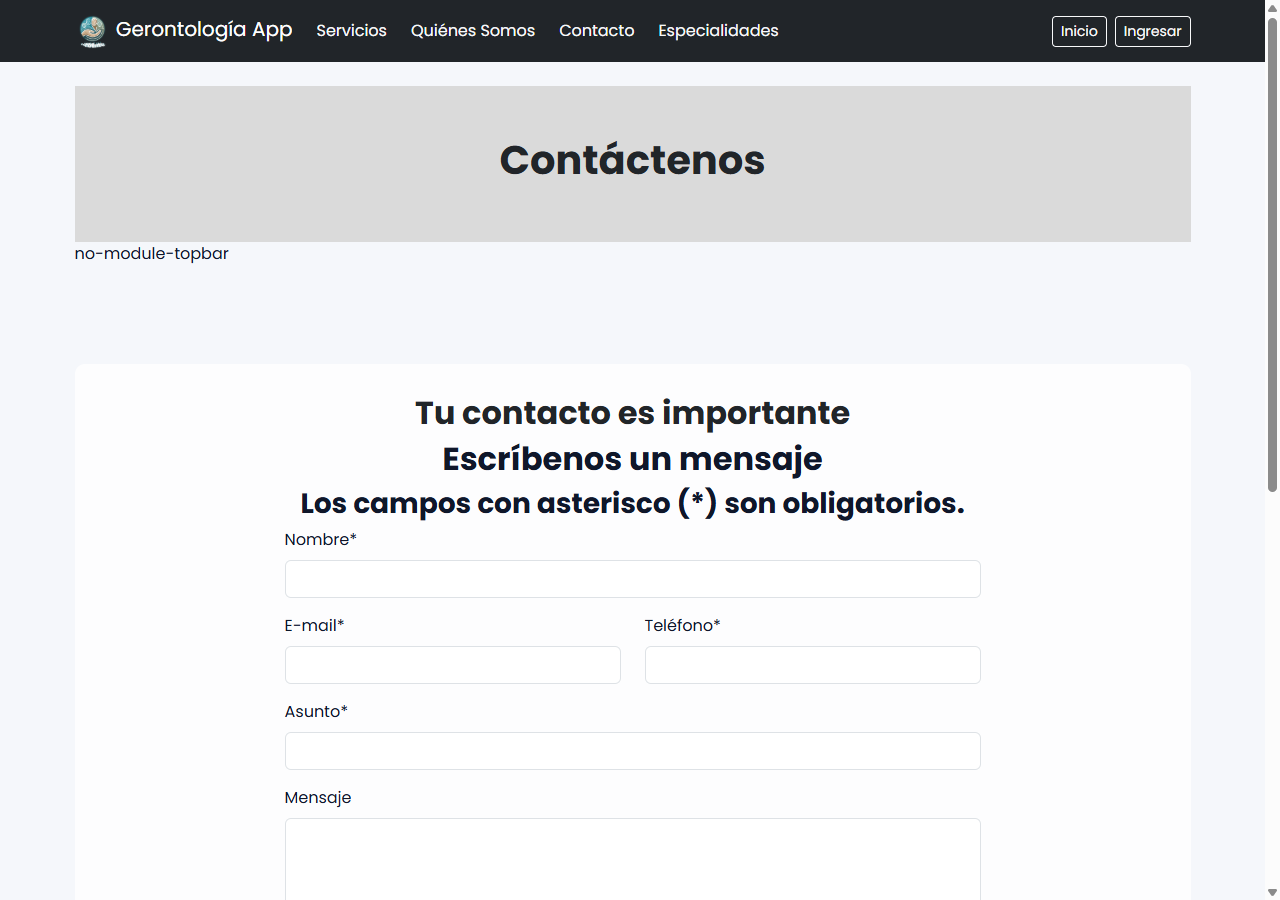
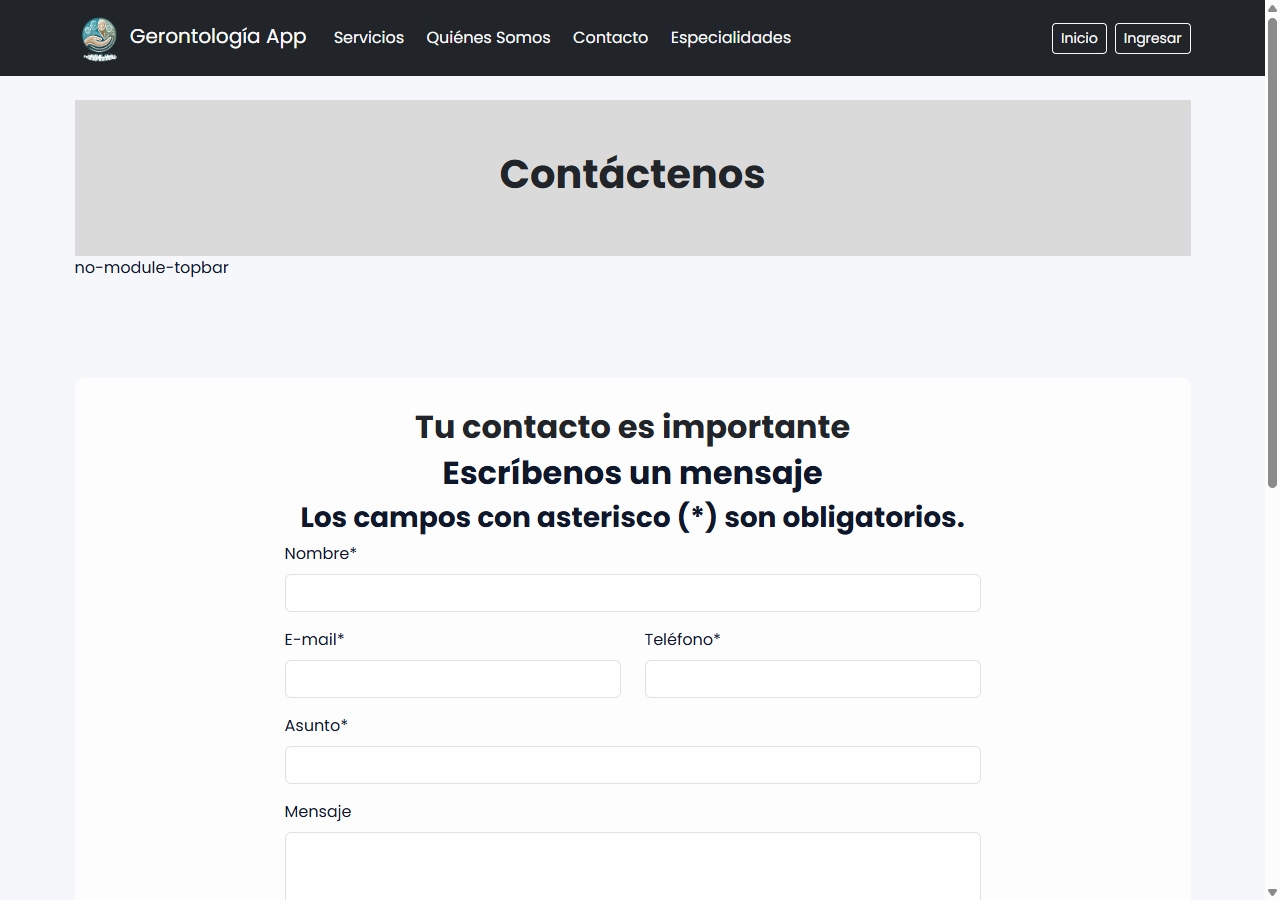
feat(responsive): make navbar and module layout responsive across pages

diff --git a/myapp/templates/module_base.html b/myapp/templates/module_base.html
@@ -19,53 +19,60 @@
     </style>
 </head>
 <body class="{% block body_class %}{% endblock %}">
-    <nav class="navbar navbar-dark bg-dark">
-        <div class="container d-flex justify-content-between align-items-center">
-            <div class="d-flex align-items-center">
-                <a class="navbar-brand me-3" href="{% url 'home' %}">
-                    <img src="{% static 'img/Logo.png' %}" height="36" alt="Logo"> Gerontología App
-                </a>
-                <ul class="navbar-nav d-flex flex-row gap-2">
-                    <li class="nav-item"><a class="nav-link text-light px-2" href="{% url 'servicios' %}">Servicios</a></li>
-                    <li class="nav-item"><a class="nav-link text-light px-2" href="{% url 'somos' %}">Quiénes Somos</a></li>
-                    <li class="nav-item"><a class="nav-link text-light px-2" href="{% url 'contactenos' %}">Contacto</a></li>
-                    <li class="nav-item"><a class="nav-link text-light px-2" href="{% url 'especialidades' %}">Especialidades</a></li>
+    <nav class="navbar navbar-dark bg-dark navbar-expand-lg main-navbar">
+        <div class="container">
+            <a class="navbar-brand me-3" href="{% url 'home' %}">
+                <img src="{% static 'img/Logo.png' %}" height="36" alt="Logo"> Gerontología App
+            </a>
+            <button class="navbar-toggler" type="button" data-bs-toggle="collapse" data-bs-target="#mainNavbar" aria-controls="mainNavbar" aria-expanded="false" aria-label="Alternar navegación">
+                <span class="navbar-toggler-icon"></span>
+            </button>
+
+            <div class="collapse navbar-collapse" id="mainNavbar">
+                <ul class="navbar-nav me-auto mb-2 mb-lg-0">
+                    <li class="nav-item"><a class="nav-link text-light" href="{% url 'servicios' %}">Servicios</a></li>
+                    <li class="nav-item"><a class="nav-link text-light" href="{% url 'somos' %}">Quiénes Somos</a></li>
+                    <li class="nav-item"><a class="nav-link text-light" href="{% url 'contactenos' %}">Contacto</a></li>
+                    <li class="nav-item"><a class="nav-link text-light" href="{% url 'especialidades' %}">Especialidades</a></li>
                 </ul>
-            </div>
-            <div class="d-flex align-items-center">
-                {% if user.is_authenticated %}
-                    <a href="{% url 'home' %}" class="btn btn-outline-light btn-sm me-2">Inicio</a>
-                    <a href="{% url 'logout' %}" class="btn btn-outline-light btn-sm">Cerrar sesión</a>
-                {% else %}
-                    <a href="{% url 'home' %}" class="btn btn-outline-light btn-sm me-2">Inicio</a>
-                    <a href="{% url 'login' %}" class="btn btn-outline-light btn-sm">Ingresar</a>
-                {% endif %}
+
+                <div class="d-flex flex-column flex-lg-row gap-2 mt-2 mt-lg-0">
+                    {% if user.is_authenticated %}
+                        <a href="{% url 'home' %}" class="btn btn-outline-light btn-sm">Inicio</a>
+                        <a href="{% url 'logout' %}" class="btn btn-outline-light btn-sm">Cerrar sesión</a>
+                    {% else %}
+                        <a href="{% url 'home' %}" class="btn btn-outline-light btn-sm">Inicio</a>
+                        <a href="{% url 'login' %}" class="btn btn-outline-light btn-sm">Ingresar</a>
+                    {% endif %}
+                </div>
             </div>
         </div>
     </nav>
 
     <!-- Module top action bar: title and module actions (can be overridden per-template) -->
     <div class="module-topbar py-2">
-        <div class="container d-flex justify-content-between align-items-center">
+        <div class="container module-topbar-inner">
             <div class="module-topbar-title">
                 {% block module_title %}{% endblock %}
             </div>
-            <div class="module-topbar-actions d-flex align-items-center">
-                {% block module_actions %}
-                    {% if user.is_authenticated %}
-                        <a href="{% url 'home' %}" class="btn btn-outline-light btn-sm me-2">← Volver al Módulo</a>
-                        <a href="{% url 'logout' %}" class="btn btn-danger btn-sm">Cerrar Sesión</a>
-                    {% endif %}
-                {% endblock %}
-            </div>
-            <!-- Theme selector: always present (outside module_actions so templates can't remove it accidentally) -->
-            <div class="theme-switcher ms-3">
-                <div class="btn-group">
-                    <button id="themeToggle" class="btn btn-sm btn-outline-light dropdown-toggle" data-bs-toggle="dropdown" aria-expanded="false">Tema</button>
-                    <ul class="dropdown-menu dropdown-menu-end" aria-labelledby="themeToggle">
-                        <li><a class="dropdown-item theme-select" data-theme="theme-professional" href="#">Profesional</a></li>
-                        <li><a class="dropdown-item theme-select" data-theme="theme-brand" href="#">Corporativo</a></li>
-                    </ul>
+            <div class="module-topbar-right d-flex align-items-center gap-2">
+                <div class="module-topbar-actions d-flex align-items-center">
+                    {% block module_actions %}
+                        {% if user.is_authenticated %}
+                            <a href="{% url 'home' %}" class="btn btn-outline-light btn-sm me-2">← Volver al Módulo</a>
+                            <a href="{% url 'logout' %}" class="btn btn-danger btn-sm">Cerrar Sesión</a>
+                        {% endif %}
+                    {% endblock %}
+                </div>
+                <!-- Theme selector: always present (outside module_actions so templates can't remove it accidentally) -->
+                <div class="theme-switcher ms-3">
+                    <div class="btn-group">
+                        <button id="themeToggle" class="btn btn-sm btn-outline-light dropdown-toggle" data-bs-toggle="dropdown" aria-expanded="false">Tema</button>
+                        <ul class="dropdown-menu dropdown-menu-end" aria-labelledby="themeToggle">
+                            <li><a class="dropdown-item theme-select" data-theme="theme-professional" href="#">Profesional</a></li>
+                            <li><a class="dropdown-item theme-select" data-theme="theme-brand" href="#">Corporativo</a></li>
+                        </ul>
+                    </div>
                 </div>
             </div>
         </div>

diff --git a/myapp/static/css/global.css b/myapp/static/css/global.css
@@ -104,3 +104,97 @@ p {
     max-height: 50px;
     width: auto;
 }
+
+/* Global responsive helpers */
+img,
+video,
+canvas,
+svg {
+    max-width: 100%;
+    height: auto;
+}
+
+input,
+select,
+textarea,
+button {
+    max-width: 100%;
+}
+
+table {
+    width: 100%;
+}
+
+.table-responsive,
+.patients-table,
+.records-table,
+.history-table,
+.evolution-table {
+    overflow-x: auto;
+    -webkit-overflow-scrolling: touch;
+}
+
+.main-navbar .navbar-nav .nav-link {
+    padding-left: 0.7rem;
+    padding-right: 0.7rem;
+}
+
+.module-topbar-inner {
+    display: flex;
+    justify-content: space-between;
+    align-items: center;
+    gap: 12px;
+    flex-wrap: wrap;
+}
+
+.module-topbar-right {
+    display: flex;
+    align-items: center;
+    gap: 10px;
+    flex-wrap: wrap;
+}
+
+@media (max-width: 991.98px) {
+    .main-navbar .navbar-collapse {
+        padding: 10px 0 6px;
+    }
+
+    .main-navbar .navbar-nav {
+        gap: 2px;
+    }
+
+    .module-topbar-title,
+    .module-topbar-right {
+        width: 100%;
+    }
+
+    .module-topbar-right {
+        justify-content: space-between;
+    }
+
+    .theme-switcher {
+        margin-left: 0 !important;
+    }
+}
+
+@media (max-width: 767.98px) {
+    body {
+        font-size: 15px;
+    }
+
+    .module-wrapper .container {
+        padding-left: 12px;
+        padding-right: 12px;
+    }
+
+    .module-topbar-actions {
+        display: flex;
+        gap: 8px;
+        flex-wrap: wrap;
+    }
+
+    .module-topbar-actions .btn,
+    .theme-switcher .btn {
+        width: 100%;
+    }
+}
